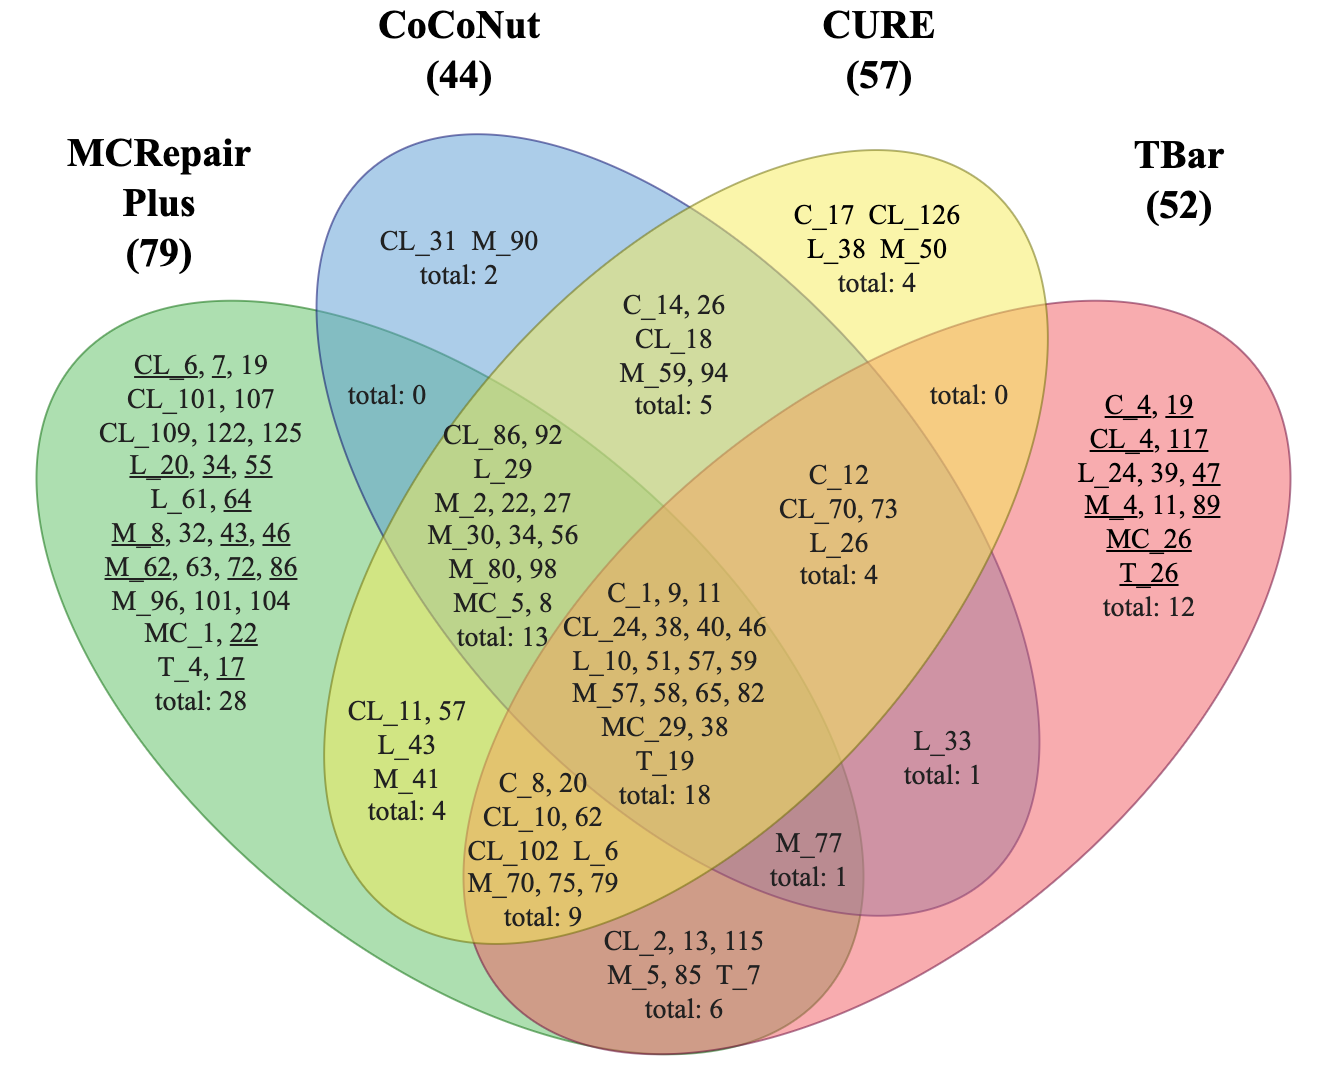
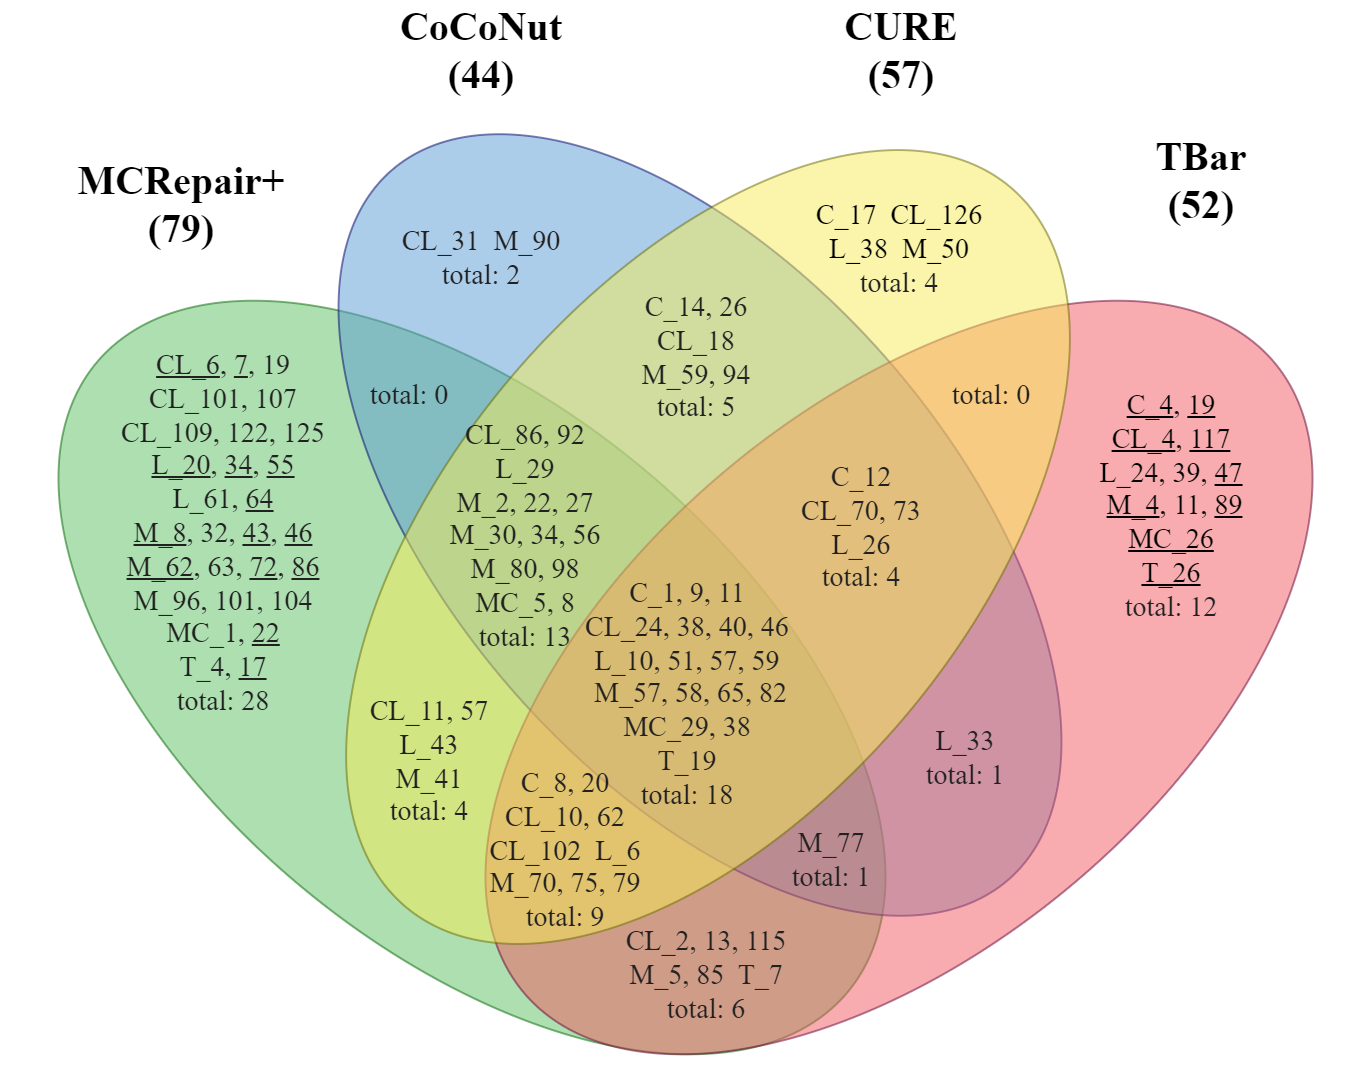
Change its figures and README.md

diff --git a/README.md b/README.md
@@ -1,4 +1,4 @@
-# MCRepair Plus
+# MCRepair+
 * An Automated Program Repair (APR) technique that applied minimized repaired locations, revised patch filtering and ranking, and proportional patch combination to the previous work ["MCRepair"]() to improve complex multi-chunk bugs.
   * MCRepair
     * An APR technique that utilized a buggy block, patch optimization, and CodeBERT to target complex multi-chunk bugs.
@@ -10,10 +10,10 @@
     * Revised patch filtering and ranking: Patch filtering that adds a new filtering rule for removing unrelated patches and patch ranking that decreases the number of expected actions and applies the maximum formula, to improve patch optimization
     * proportional patch combination: Patch combination that gives higher top k values for a big logical buggy chunk that has many buggy locations, to improve patch optimization
 * Figures
-  * [Figure 1:](./figures/Figure1.png) Limitation1 and Improvement1 between MCRepair and MCRepair Plus. (RL: Repaired location, MRL: Minimized repaired location, ✚: Plus for improvement)
-  * [Figure 2:](./figures/Figure2.png) Limitation2 and Improvement2 between MCRepair and MCRepair Plus. (ST: Stop-words)
-  * [Figure 3:](./figures/Figure3.png) Limitation3 and Improvement3 between MCRepair and MCRepair Plus. (bLocs: The number of buggy locations for each chunk)
-  * [Figure 4:](./figures/Figure4.png) An overview of MCRepair Plus. (▲: Only use for training or validation, ◆: Only use for generation)
+  * [Figure 1:](./figures/Figure1.png) Limitation1 and Improvement1 between MCRepair and MCRepair+. (RL: Repaired location, MRL: Minimized repaired location, ✚: Plus for improvement)
+  * [Figure 2:](./figures/Figure2.png) Limitation2 and Improvement2 between MCRepair and MCRepair+. (ST: Stop-words)
+  * [Figure 3:](./figures/Figure3.png) Limitation3 and Improvement3 between MCRepair and MCRepair+. (bLocs: The number of buggy locations for each chunk)
+  * [Figure 4:](./figures/Figure4.png) An overview of MCRepair+. (▲: Only use for training or validation, ◆: Only use for generation)
     <img src="./figures/Figure4.png" width="100%">
   * [Figure 5:](./figures/Figure5.png) An example of the source code datasets. (–: Buggy location, +: Fixed location)
   * [Figure 6:](./figures/Figure6.png) The details of Ingredient Extraction. (M: Method, F: Field, R: Relationship, CD: Compared Difference, MRL: Minimized Repaired Location)
@@ -30,7 +30,7 @@
   * Figure 15: RQ3. Statistics per range on Defects4J <u>with</u> Perfect Fault Localization.
     * [Figure 15: (a) Chunk range](./figures/Figure15a.png)
     * [Figure 15: (b) Location range](./figures/Figure15b.png)
-  * [Figure 16:](./figures/Figure16.png) RQ4. Venn Diagram between MCRepair Plus and MCRepair. (Underlined: Unique <u>Type 3</u> bugs)
+  * [Figure 16:](./figures/Figure16.png) RQ4. Venn Diagram between MCRepair+ and MCRepair. (Underlined: Unique <u>Type 3</u> bugs)
 <br><br>
 
 ## 1. Location-level criterion
